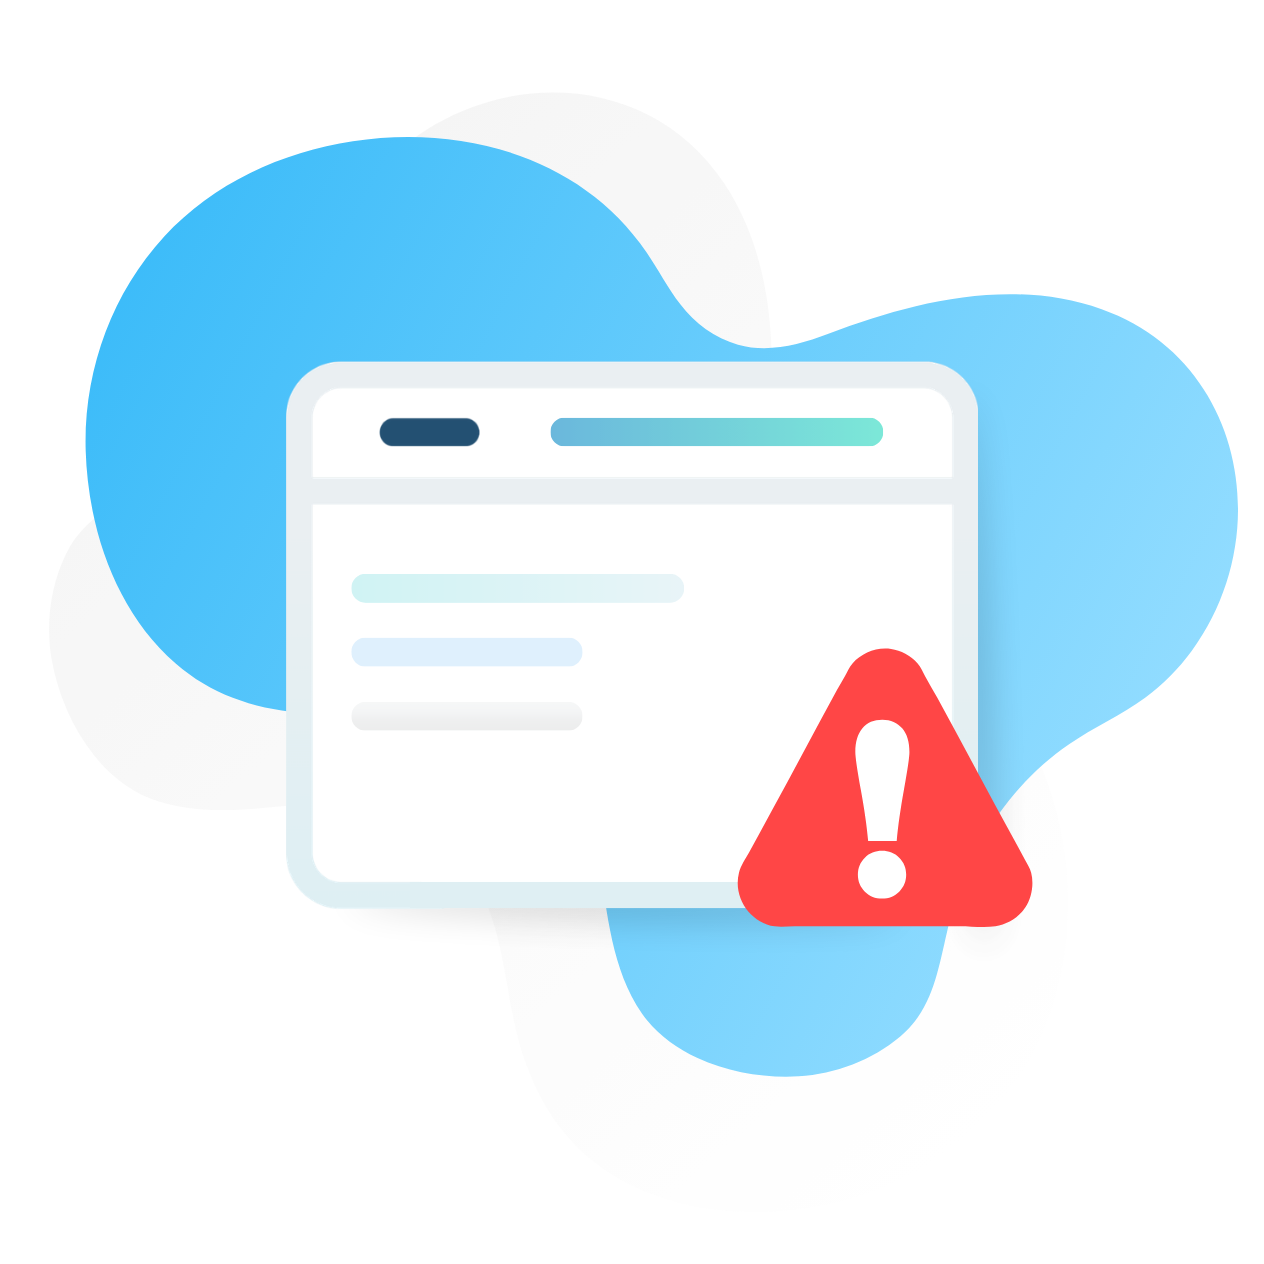
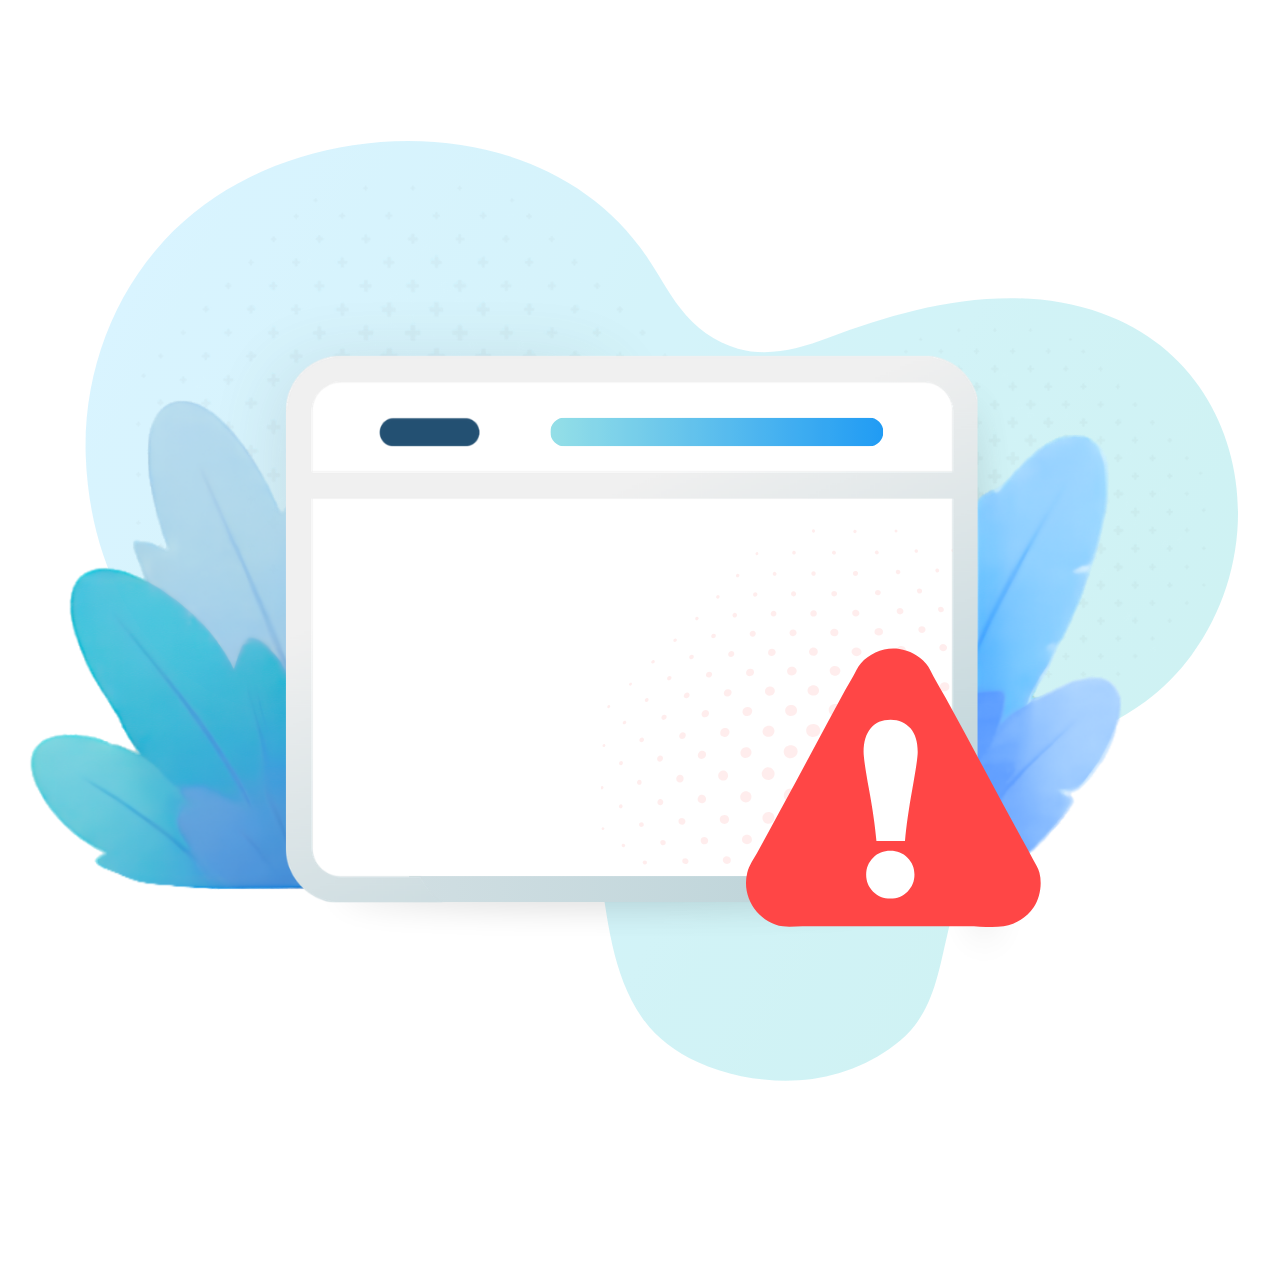
Redesign of Site Graphics - Full custom redesign of the Error Page and Home Page graphics for a more polished and complete appearance.

diff --git a/app/globals.css b/app/globals.css
@@ -835,7 +835,7 @@ h3 {
 .home-hero {
 	background: 
 		linear-gradient(150deg, #f8fcfc52 42%, #f8fcfb00 80%, #c6eaffd7 100%),
-		url("/medicuro-home-setup.png") right center / 54% no-repeat;
+		url("/medicuro-home-setup.png") right center / 55% no-repeat;
 	margin: 0 calc(50% - 50vw);
 	min-height: 30rem;
 	overflow: hidden;
@@ -940,13 +940,13 @@ h3 {
 .directory-link-icon {
 	align-items: center;
 	background: #8ed4ff9d;
-	border-radius: 5rem;
+	border-radius: 1rem;
 	color: var(--blue);
 	display: flex;
 	flex: 0 0 auto;
-	height: 3.5rem;
+	height: 3.2rem;
 	justify-content: center;
-	width: 3.5rem;
+	width: 3.2rem;
 }
 
 .privacy-panel h2,
@@ -1060,7 +1060,7 @@ h3 {
 
 .home-context-icon {
 	align-items: center;
-	background: linear-gradient(130deg, #34dbc2, #0cb3a7);
+	background: #30d8bf;
 	border-radius: 0.8rem;
 	color: #ffffff;
 	display: flex;
@@ -1072,7 +1072,7 @@ h3 {
 }
 
 .home-context-notes article:nth-child(even) .home-context-icon {
-	background: linear-gradient(130deg, #4db3f7, #1a8ad0);
+	background: #4db3f7;
 }
 
 .home-context-number {
@@ -1220,7 +1220,8 @@ body:has(.admin-notes) .page-footer {
 	align-items: center;
 	background:
 		radial-gradient(ellipse at 78% 52%, #8fe1eb5c, transparent 42%),
-		linear-gradient(135deg, #fcfcfc 5%, #f0fbfb 100%);
+		linear-gradient(135deg, #fcfcfc 5%, #f0fbfbc8 100%),
+		url("/medicuro-background-plus-1") center / 160% auto no-repeat;
 	display: grid;
 	flex: 1;
 	gap: clamp(1.5rem, 4vw, 4rem);
@@ -2965,6 +2966,8 @@ body:has(.admin-notes) {
 
 	.home-context-intro {
 		max-width: 42rem;
+		text-align: center;
+		margin-inline: auto;
 	}
 
 	.home-context-notes {
